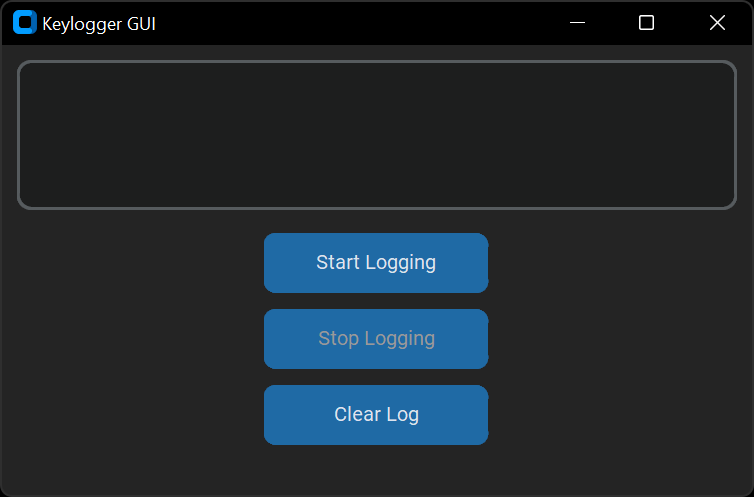
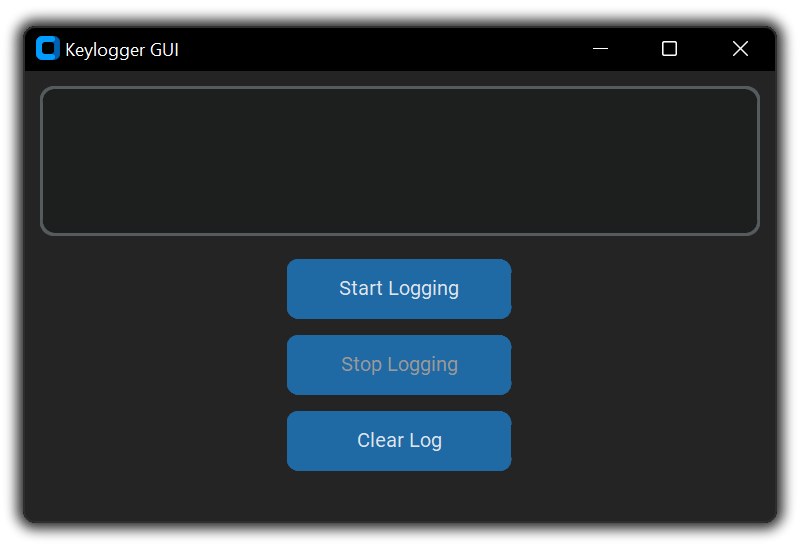
README style change

Changed region(s): [[0.0, 0.0, 1.0, 1.0], [0.6406, 0.4829, 0.6711, 0.5734]]

diff --git a/README.md b/README.md
@@ -1,6 +1,8 @@
 # ⌨ KeyLogger
 
-<img src="image.png" alt="GUI Image">
+<p align="center">
+    <img src="image.png" alt="GUI Image">
+</p>
 
 A simple keystroke logger with a easy to use GUI.
 
